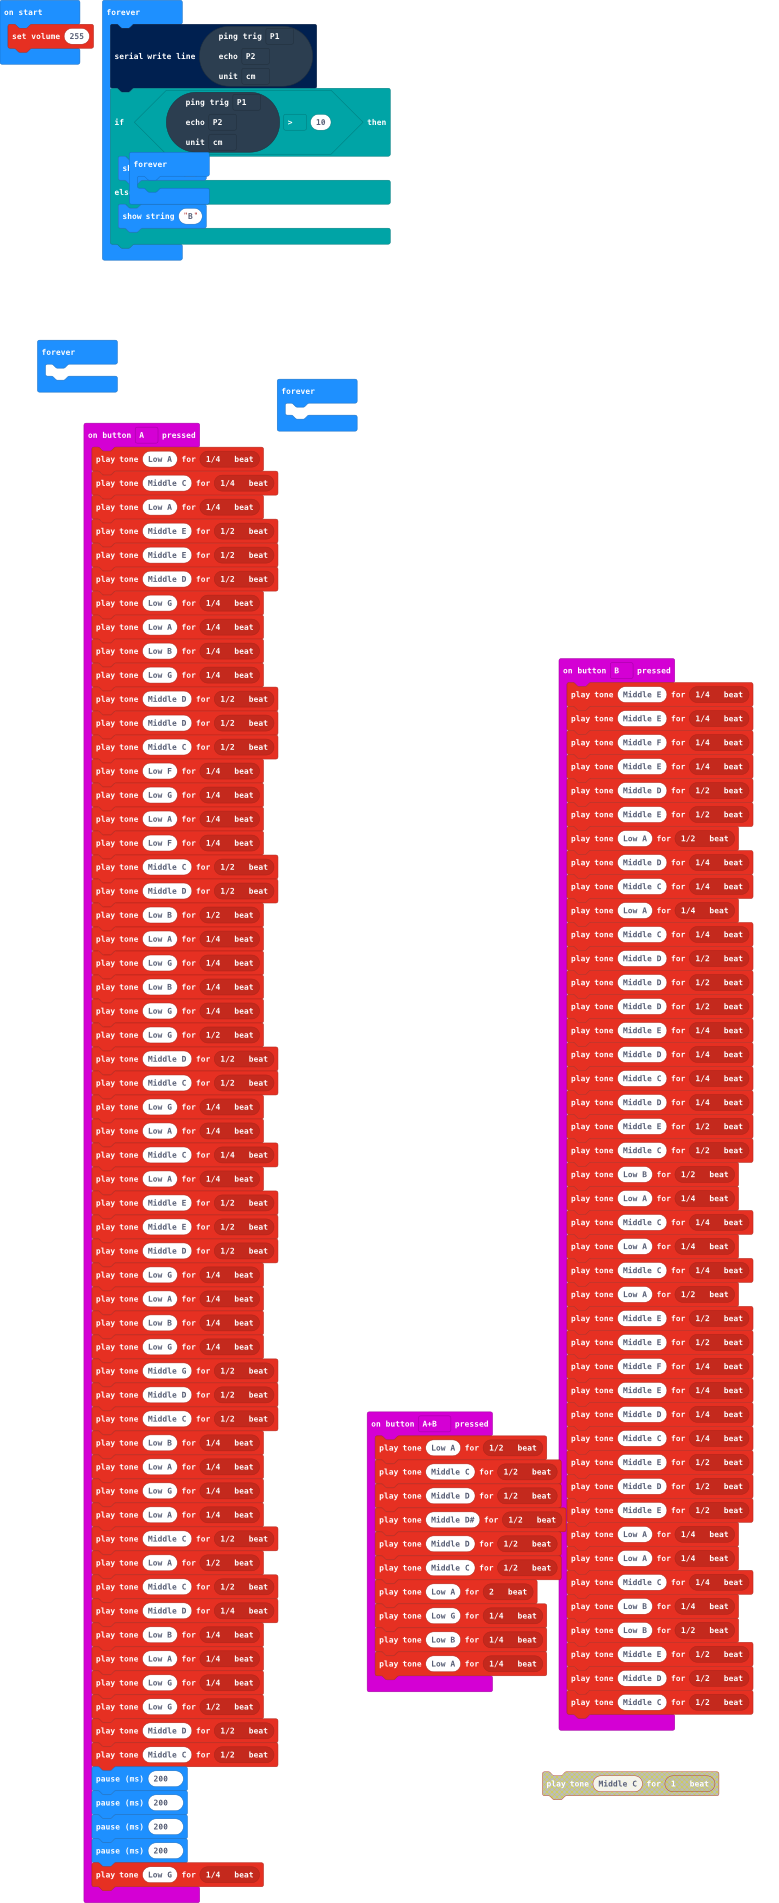
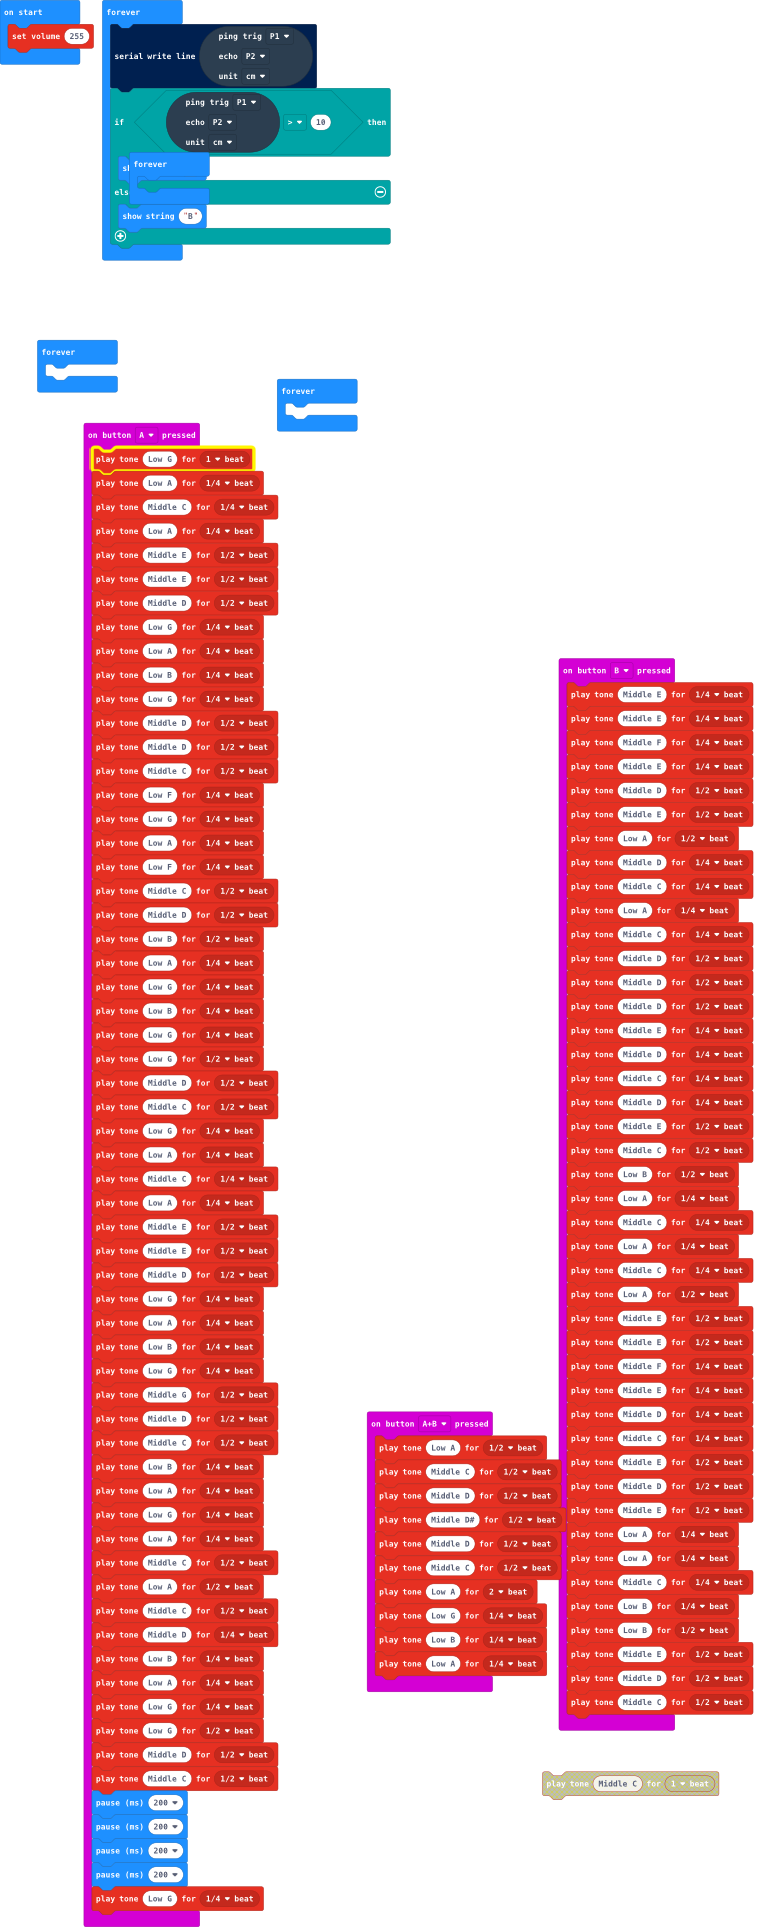
Update main.blocks, main.ts

diff --git a/main.ts b/main.ts
@@ -1,4 +1,5 @@
 input.onButtonPressed(Button.A, function () {
+    music.playTone(196, music.beat(BeatFraction.Whole))
     music.playTone(220, music.beat(BeatFraction.Quarter))
     music.playTone(262, music.beat(BeatFraction.Quarter))
     music.playTone(220, music.beat(BeatFraction.Quarter))
